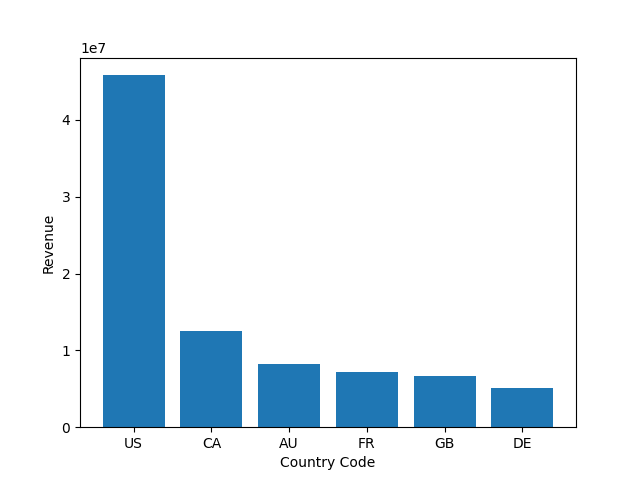
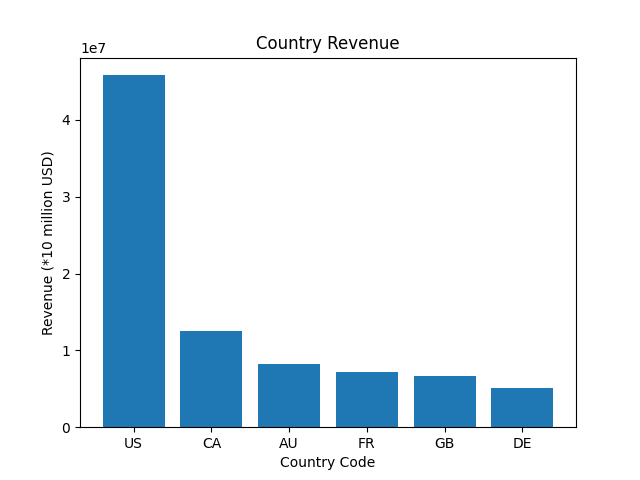
Updated table
Add some title and label

Changed region(s): [[0.4062, 0.0625, 0.625, 0.125], [0.0625, 0.3125, 0.0938, 0.7188]]

diff --git a/question1/Q1_code.py b/question1/Q1_code.py
@@ -1,12 +1,14 @@
 import pandas as pd
-import numpy as np
 from matplotlib import pyplot as plt
 
+#import database as dataframe
 tb1 = pd.read_csv('C:\\Users\\Admin\\Desktop\\interim project\\table1.1.csv')
-print(tb1)
-
+#print(tb1)
+#draw bar char using Country Region Code and Revenue
 plt.bar(tb1.CountryRegionCode, tb1.Revenue)
+#Set x label, y label and title for the chart
 plt.xlabel('Country Code')
-plt.ylabel('Revenue')
-
+plt.ylabel('Revenue (*10 million USD)')
+plt.title('Country Revenue')
+#Show the chart
 plt.show()

diff --git a/question1/Q1.2_code.py b/question1/Q1.2_code.py
@@ -21,13 +21,12 @@ fig, ax = plt.subplots()
 bar1 = ax.bar(x - width/2, y1, width, label='SalesYTD')
 bar2 = ax.bar(x + width/2, y2, width, label='SalesLastYear')
  
-#ax.set_xlabel('Year')
-ax.set_ylabel('USD')
+#set y label, title, xticks and legend for the chart
+ax.set_ylabel('*10million USD')
 ax.set_title('Total Sales per Region in United States')
 ax.set_xticks(x, region)
 ax.legend()
  
- 
-#fig.tight_layout()
+#Show the chart
  
 plt.show()
